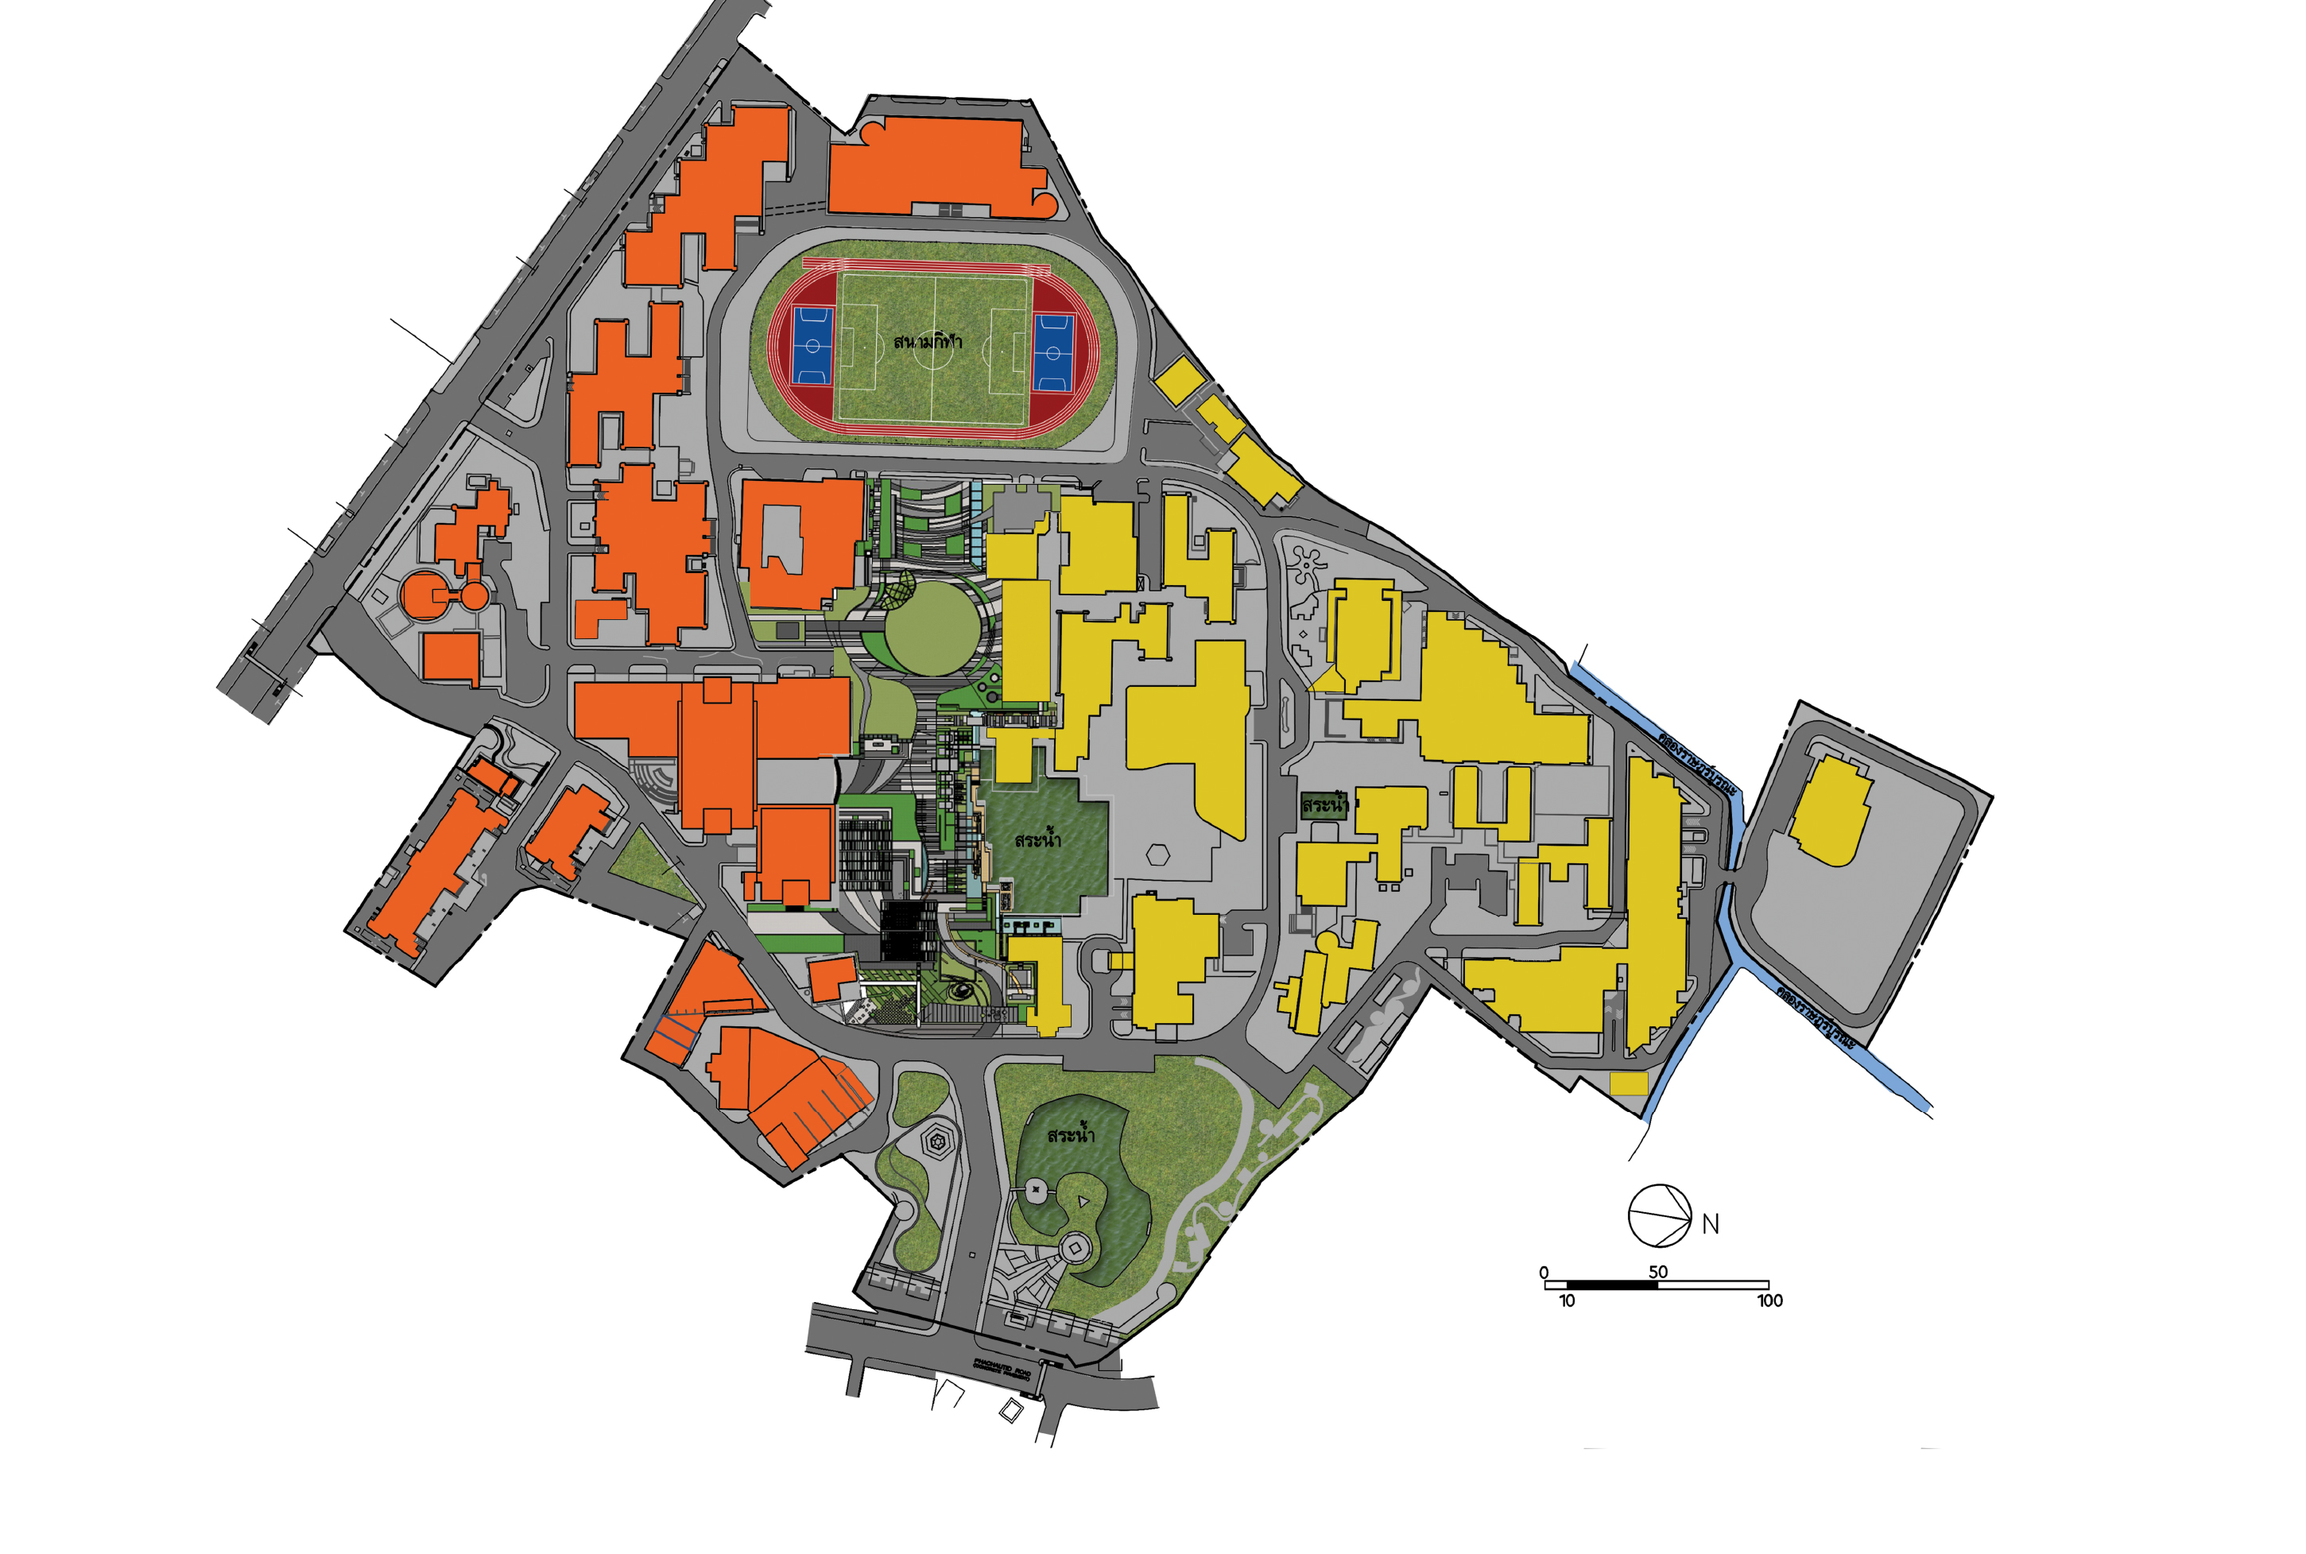
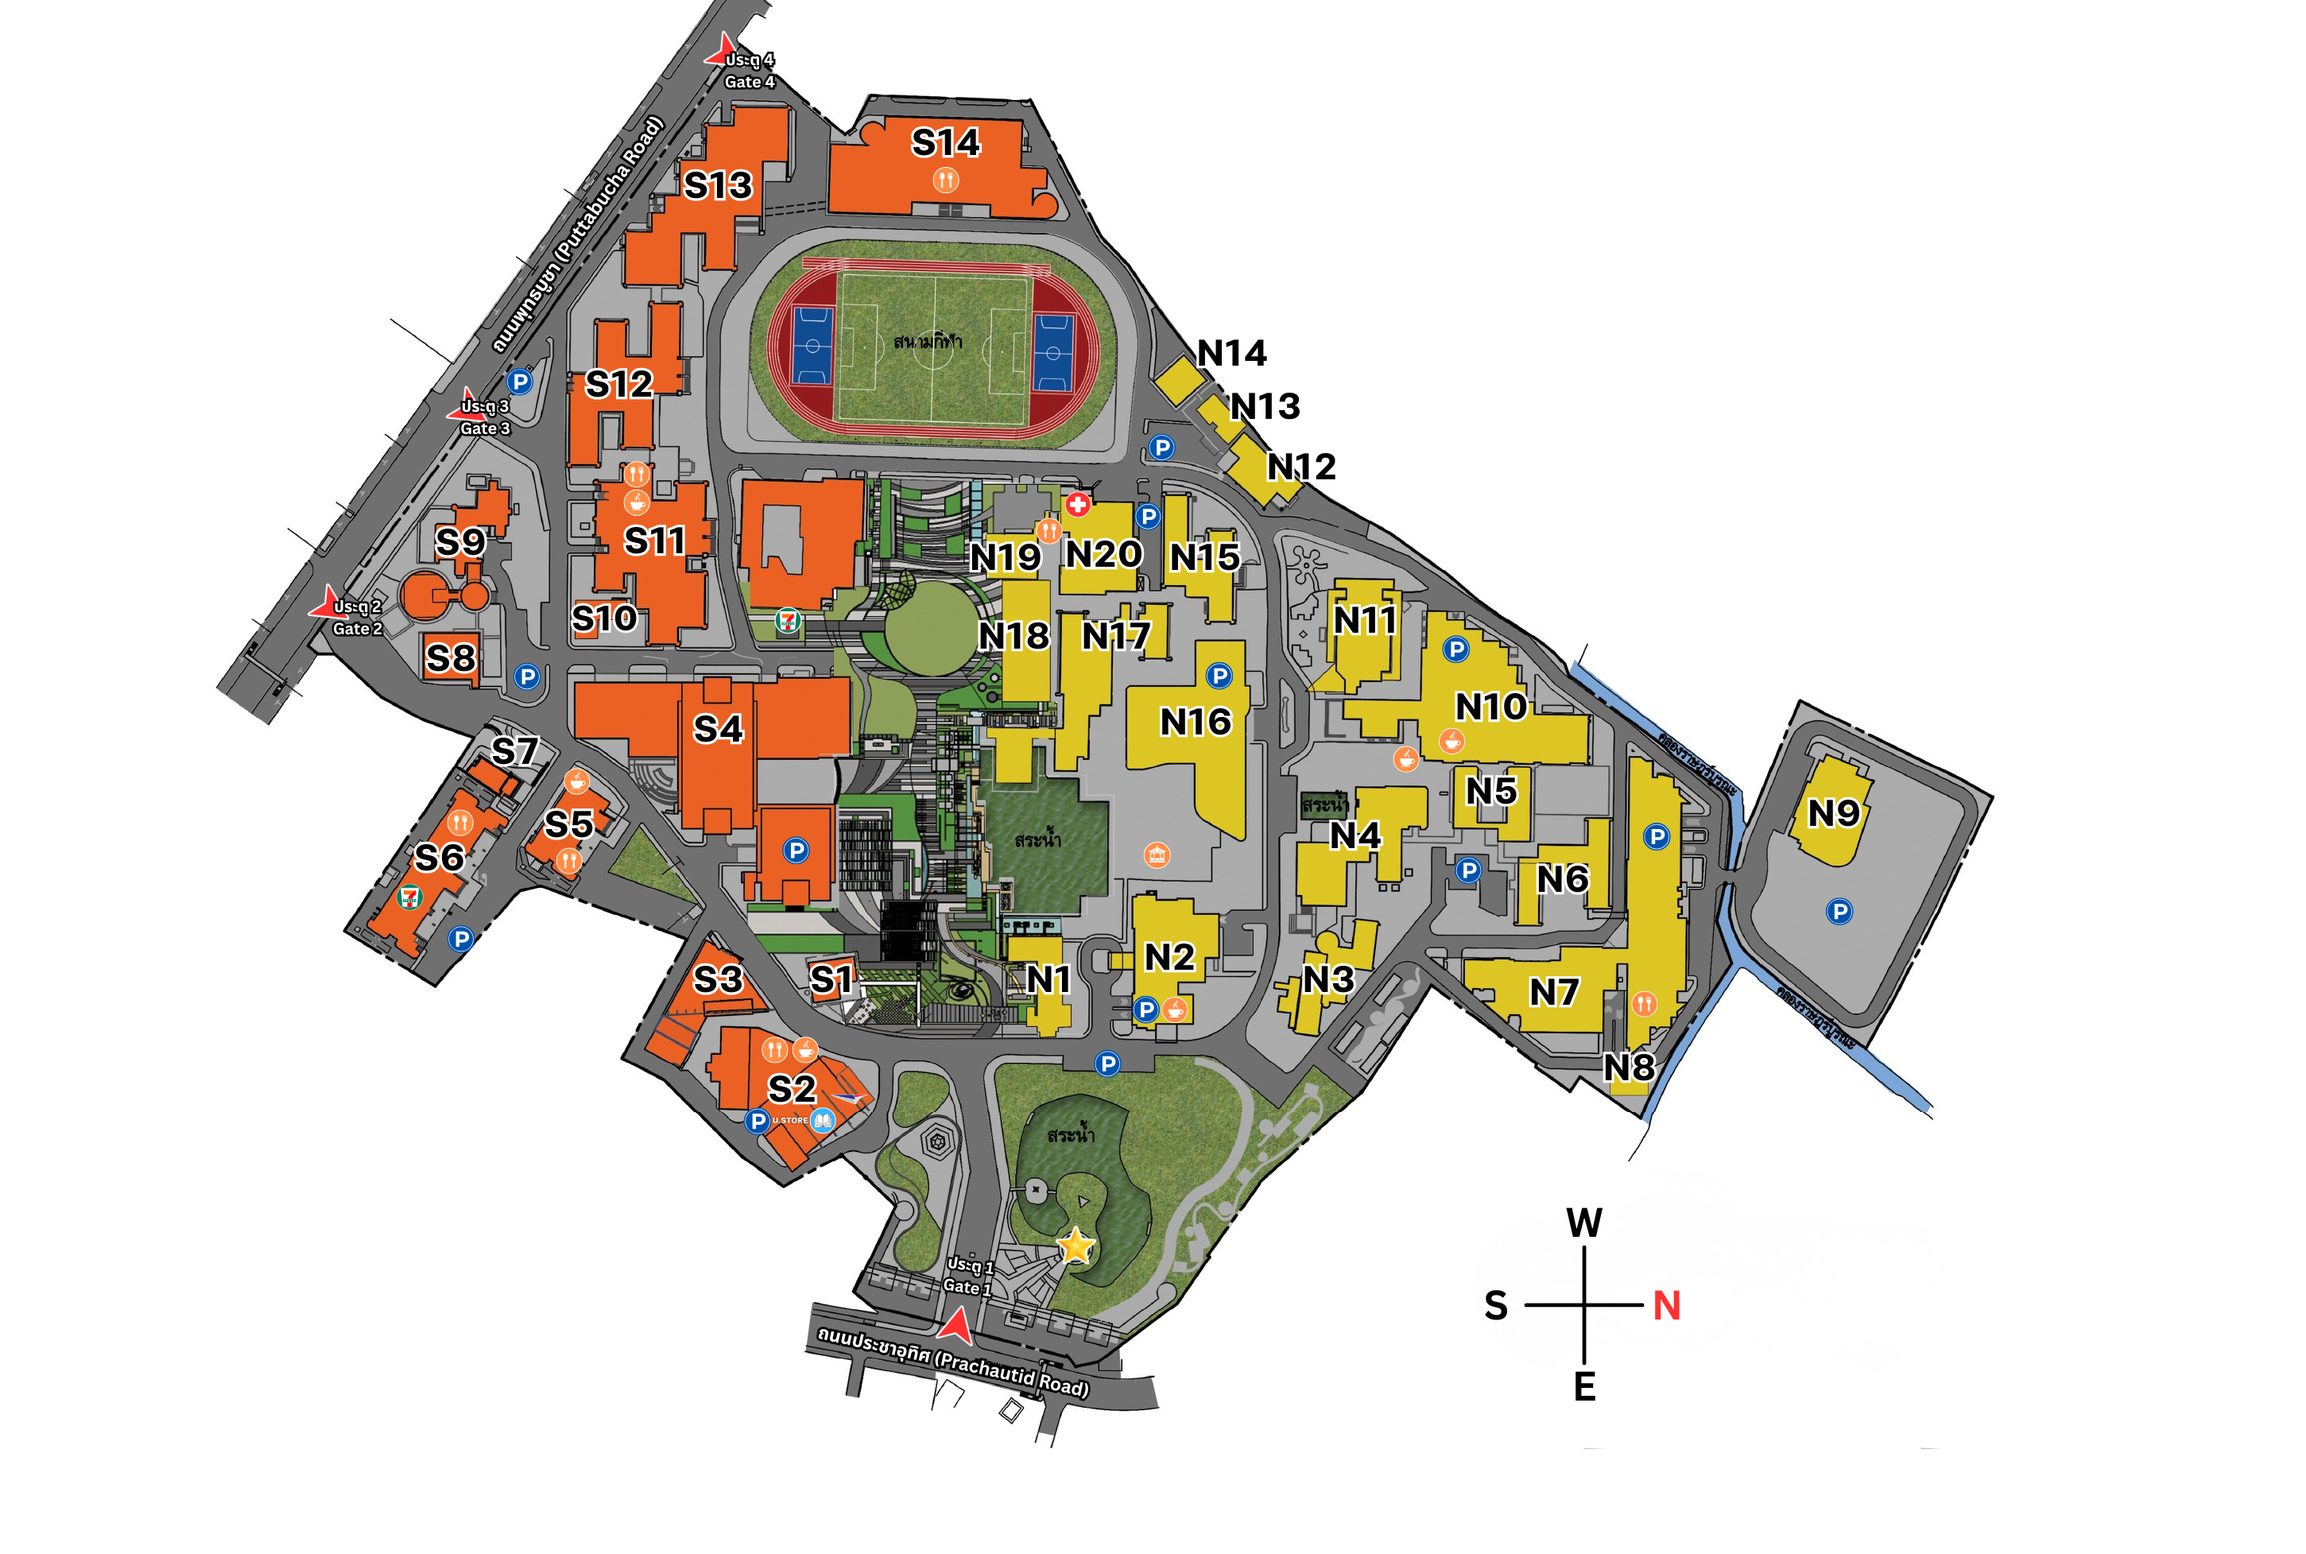
แก้ตามที่พี่มาคเพิ่มเติม

diff --git a/index.html b/index.html
@@ -32,7 +32,7 @@
                 อัตราการใช้พลังงานไฟฟ้ามหาวิทยาลัยเทคโนโลยีพระจอมเกล้าธนบุรี
             </h1>
             <p class="sub-title">
-                    วิทยาเขตบางมด
+                    พื้นที่การศึกษาบางมด
             </p>
         </div>
     </div>
@@ -98,7 +98,6 @@
         <div class="footer-content">
 
             <div class="footer-section">
-                <h2 class="footer-title">EESH KMUTT</h2>
                 <p>ศูนย์การจัดการด้านพลังงาน สิ่งแวดล้อม ความปลอดภัยและอาชีวอนามัย</p>
                 <p>มหาวิทยาลัยเทคโนโลยีพระจอมเกล้าธนบุรี</p>
             </div>
@@ -115,8 +114,8 @@
             <div class="footer-section">
                 <h3 class="section-heading">ติดตามเรา</h3>
                 <div class="social-buttons">
-                    <a href="https://www.facebook.com/eeshkmutt" target="_blank" class="btn-social">Facebook</a>
-                    <a href="https://www.instagram.com/eeshkmutt" target="_blank" class="btn-social">Instagram</a>
+                    <a href="https://www.facebook.com/eeshatkmutt" target="_blank" class="btn-social">Facebook</a>
+                    <a href="https://www.instagram.com/kmutt.greenheart" target="_blank" class="btn-social">Instagram</a>
                 </div>
             </div>
 

diff --git a/style.css b/style.css
@@ -431,7 +431,7 @@ CSS
 }
 
 .footer-section p {
-    font-size: 14px;
+    font-size: 13px;
     line-height: 1.6;
     color: #d1d5db;
     margin: 5px 0;
